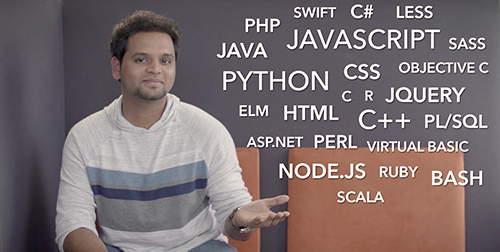
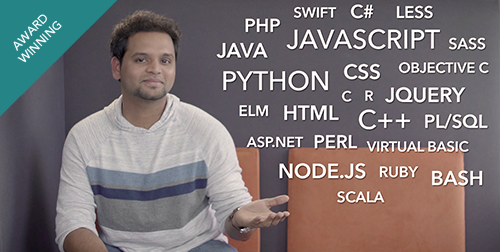
updating image and adding highlight to about text

Changed region(s): [[0.0, 0.0, 0.24, 0.4444]]

diff --git a/_pages/about.html b/_pages/about.html
@@ -13,8 +13,8 @@ permalink: /about/
         <div class="author_info">
           <h2 class="author_title">{% if site.author-name %}{{site.author-name}}{% else %}Tiffany Stedman Kotowski{% endif %}</h2>
           <p class="author_subtitle_heading">{% if site.about-author %}{{site.about-author}}{% else %}Right Brain Meets Left Brain.</p>
-          <p class="author_subtitle">My right brain flourishes: I'm a designer, visual crafter, and idea connector.  I like to make <a href="http://tskcreative.com/guide-to-animation/">leprechauns</a> and <a href="http://tskcreative.com/lets-be-social/">turkeys</a> dance.  That said, my left brain is equally engaged: I'm logical, strategic, and orderly. I have legal honors and accomplishments based on these skills.  Bring these together and you have a powerhouse designer who can anticipate outcomes, solve problems, and digitally implement (translation: I can code too).</p>  
-         <p class="author_subtitle">Hi. I'm a full-time, full-stack designer, adept at managing and executing multiple projects simultaneously. I am both highly productive and easygoing in situations of rapid change.  I do website planning and implementation, craft graphic design and photographic direction, and I produce social media and other visual assets. This year, I won two design awards for my video production and animation work.  Always eager to gain new skills, I am wireframing and prototyping a dog-walking app for fun.</p>
+          <p class="author_subtitle">My right brain flourishes: I'm a designer, visual crafter, and idea connector.  I like to make <a href="http://tskcreative.com/guide-to-animation/">leprechauns</a> and <a href="http://tskcreative.com/lets-be-social/">turkeys</a> dance.  That said, my left brain is equally engaged: I'm logical, strategic, and orderly. I have legal honors and accomplishments based on these skills.  Bring these together and you have <span class="highlight">a powerhouse designer who can anticipate outcomes, solve problems, and digitally implement</span> (translation: I can code too).</p>  
+         <p class="author_subtitle">Hi. I'm a full-time, full-stack designer, adept at managing and executing multiple projects simultaneously. I am both highly productive and easygoing in situations of rapid change.  I do website planning and implementation, craft graphic design and photographic direction, and I produce social media and other visual assets. This year, I won two design awards for <a href="http://tskcreative.com/come-work-with-us/">my video production and animation work</a>.  Always eager to gain new skills, I am wireframing and prototyping a dog-walking app for fun.</p>
           <p class="author_subtitle_heading">Creative. Strategic. Smart.</p>
           <p class="author_subtitle">Formal education?  Sure, I have that too. I was trained in web design at the School of the Art Institute of Chicago, studied Journalism, Advertising, and Public Relations at the University of Minnesota, and mastered law at The George Washington University. In other words, I am a curious creative who loves the Oxford comma.{% endif %}</p>
         </div>

diff --git a/assets/css/main.css b/assets/css/main.css
@@ -2180,6 +2180,8 @@ cite {
         text-align: left; }
         .about .author .author_info .author_subtitle a {
           color: #1d8487; }
+        .about .author .author_info .author_subtitle .highlight {
+          background-color: #a9d4d8; }
       .about .author .author_info .author_subtitle_heading {
         font-weight: bold;
         text-align: center; }

diff --git a/assets/css/sass/_about.sass b/assets/css/sass/_about.sass
@@ -37,6 +37,8 @@
         text-align: left
         a
           color: $highlight
+        .highlight
+          background-color: #a9d4d8
       .author_subtitle_heading
         font-weight: bold
         text-align: center
